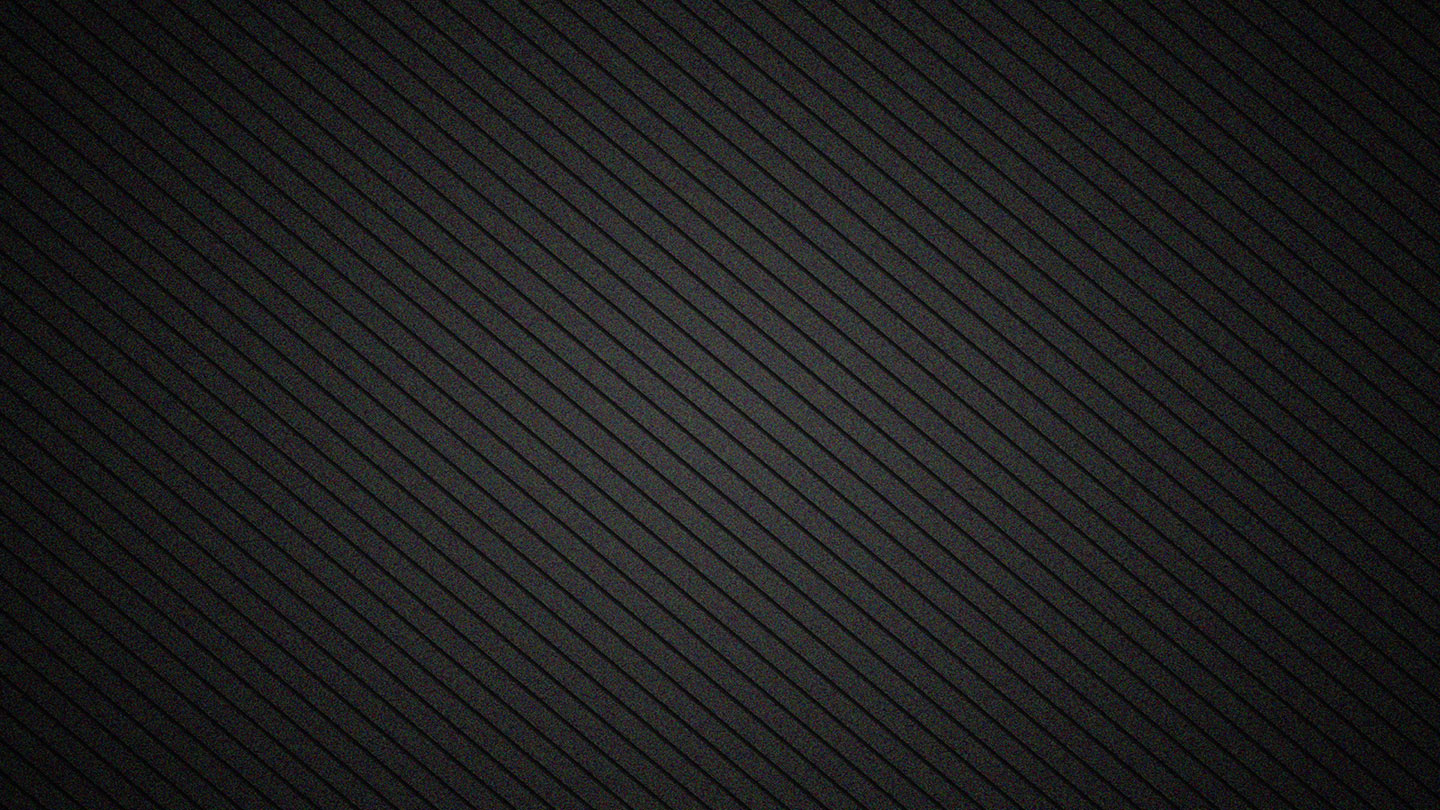
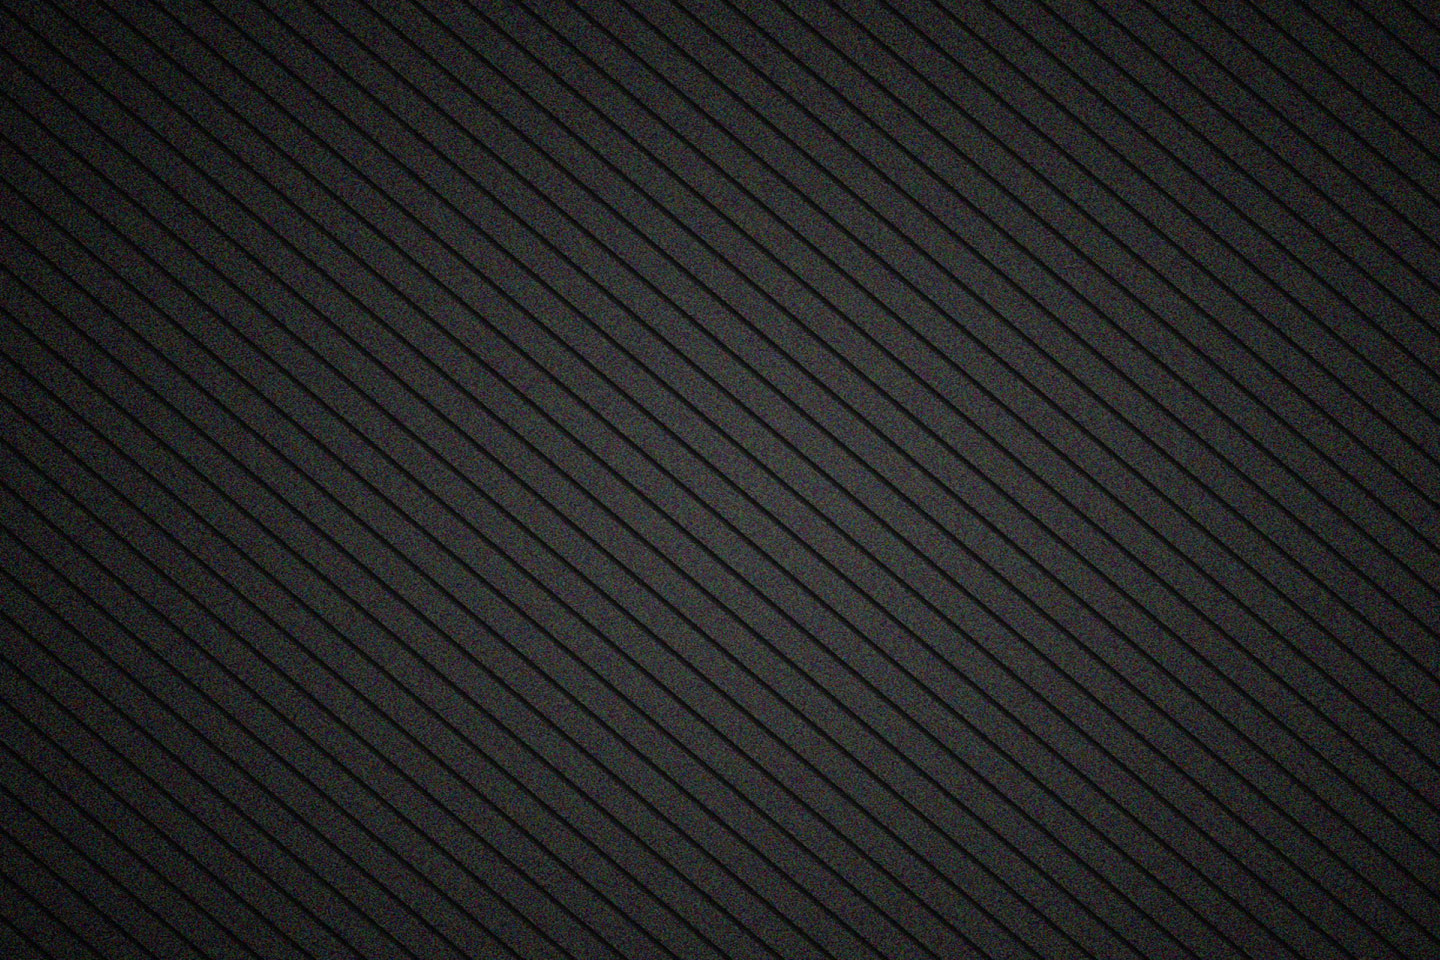
fix_background

diff --git a/public/assets/css/style.css b/public/assets/css/style.css
@@ -1,6 +1,6 @@
 body {
     /*background: #ecf0f1;*/
-    background: url('/assets/images/bg.jpg') no-repeat fixed;
+    background: url('/assets/images/bg.jpg') fixed 100%;
 }
 a {
     text-decoration: none;
